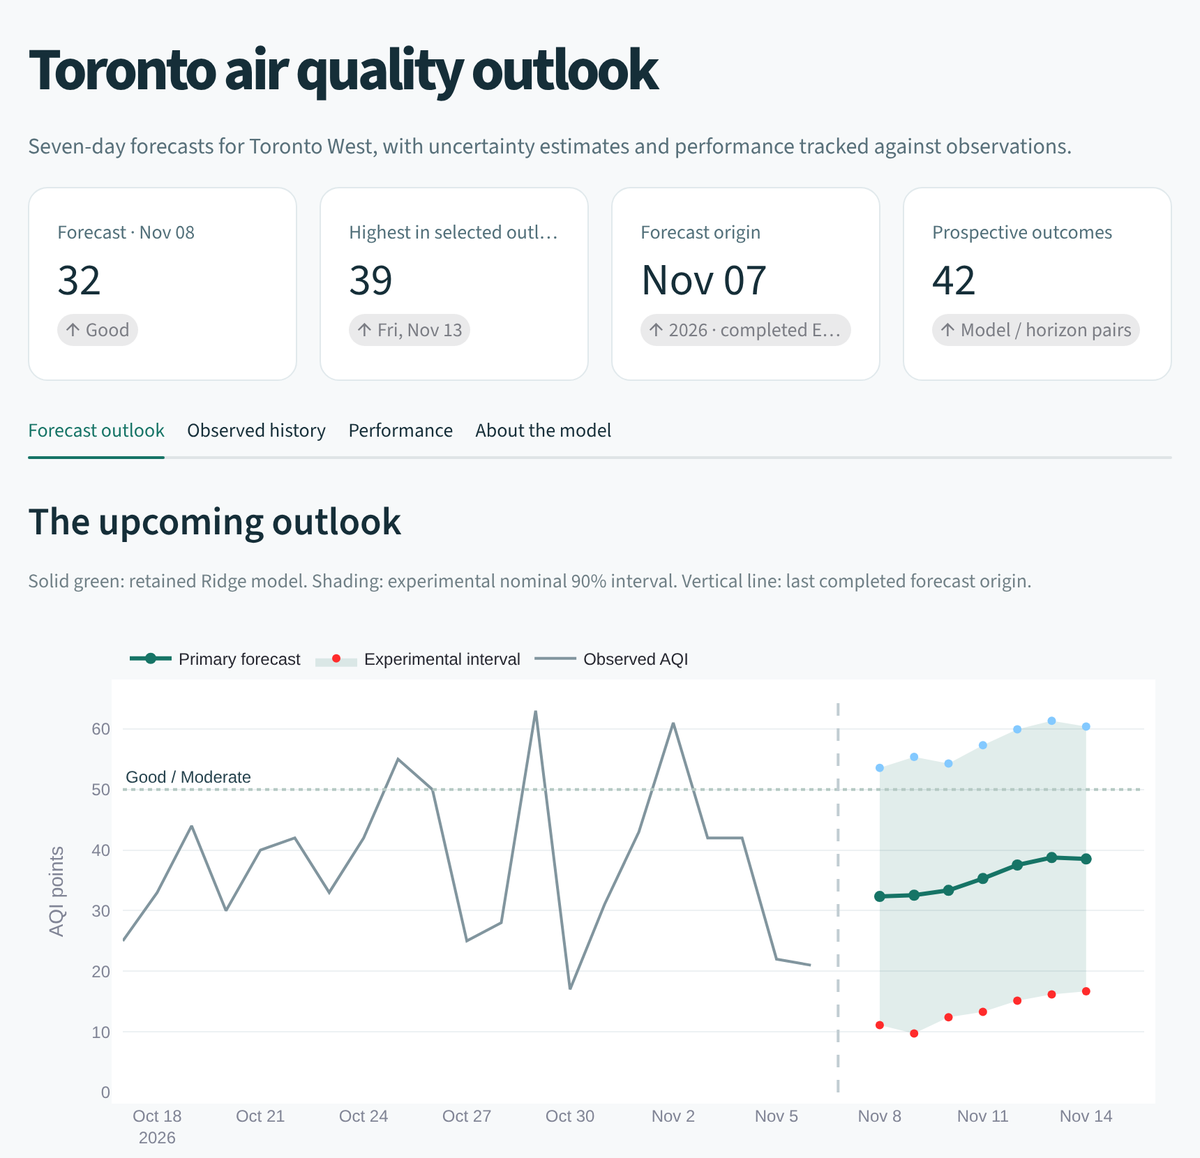
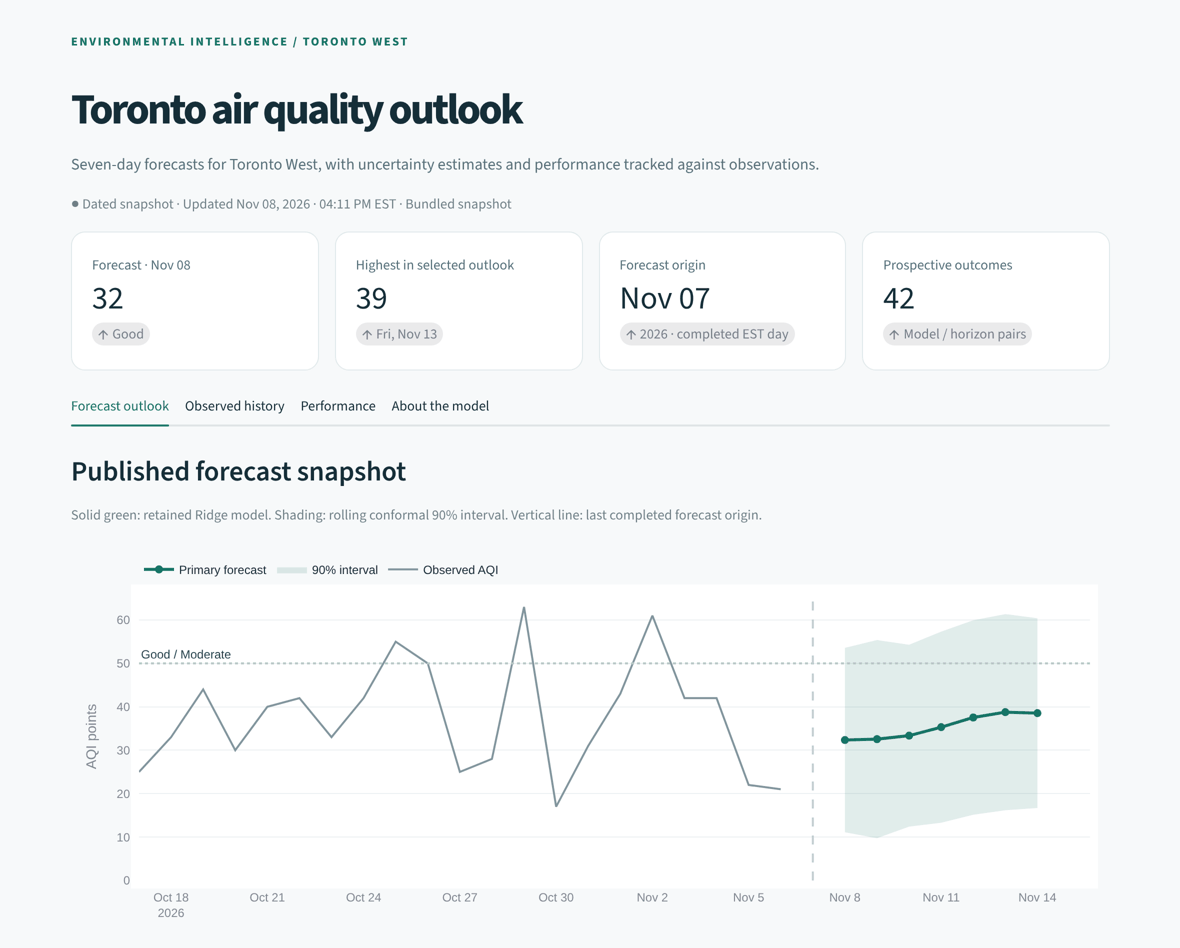
Refresh the README and dashboard screenshot
README: add a tests badge, point readers to the notebook and the live
forecasts on the data branch, add category accuracy to the results,
state the main weakness (pollution spikes) with a 2025 forecast-versus-
observed chart, rewrite findings in plain language, complete the project
layout, and add the commands that reproduce each report.

Dashboard: draw the 90% band edges as lines only. Without an explicit
mode, Plotly added default-coloured markers to the band boundaries.
The screenshot is retaken with the current labels.

diff --git a/app.py b/app.py
@@ -92,6 +92,7 @@ def forecast_chart(primary, challenger, observed, intervals, compare):
             go.Scatter(
                 x=primary.Date,
                 y=primary.upper_AQI,
+                mode="lines",  # no default-coloured markers on the band edges
                 line=dict(width=0),
                 showlegend=False,
                 hoverinfo="skip",
@@ -103,6 +104,7 @@ def forecast_chart(primary, challenger, observed, intervals, compare):
                 y=primary.lower_AQI,
                 fill="tonexty",
                 fillcolor="rgba(22,116,102,.13)",
+                mode="lines",
                 line=dict(width=0),
                 name="90% interval",
                 hoverinfo="skip",

diff --git a/README.md b/README.md
@@ -1,57 +1,71 @@
 # Toronto Air Quality Forecasting
 
-**Daily AQI forecasts for Toronto, 1–7 days ahead — trained, evaluated and published automatically.**
+[![Forecast tests](https://github.com/AhmedOT22/Air-Quality-Forecasting/actions/workflows/tests.yml/badge.svg)](https://github.com/AhmedOT22/Air-Quality-Forecasting/actions/workflows/tests.yml)
+
+**Daily Air Quality Index (AQI) forecasts for Toronto, 1–7 days ahead — trained,
+tested on a held-out year, and published automatically twice a day.**
 
 Python · pandas · scikit-learn · Streamlit · GitHub Actions
 
-![Dashboard: observed AQI and the upcoming 7-day forecast](docs/images/dashboard.png)
+![Dashboard: observed AQI, the 7-day forecast and its 90% range](docs/images/dashboard.png)
 
-An end-to-end forecasting system: it builds a daily Air Quality Index from public
-government monitoring data, selects a model with leakage-free time-series validation,
-then issues new forecasts twice a day and scores each one against what actually happened.
+The system builds a daily AQI from public government monitoring data, picks a model
+with leak-free time-series testing, then issues a new 7-day forecast twice a day and
+scores each one once the real value is known.
+
+**Start here:** the [notebook](AirQuality.ipynb) tells the whole story in ten short
+sections, from the raw data to where the model fails. The **latest live forecasts**
+are in [`reports/operational/`](https://github.com/AhmedOT22/Air-Quality-Forecasting/tree/data/reports/operational)
+on the `data` branch.
 
 ## Results
 
-The selected model, **Ridge regression** (one model per horizon), was chosen on
-2022–2024 data and then evaluated once on the held-out year **2025**:
+The model is **Ridge regression** (one per forecast horizon). It was chosen using
+2022–2024 data, frozen, and then tested once on **2025**, a year it never saw:
 
-| Horizon | Ridge MAE | Persistence MAE | Error reduction |
-| --- | ---: | ---: | ---: |
-| 1 day | **10.8** | 14.9 | **27%** |
-| 3 days | **12.5** | 15.6 | **20%** |
-| 7 days | **12.2** | 16.4 | **26%** |
+| Days ahead | Forecast error | Naive guess error | Less error | Right AQI category |
+| --- | ---: | ---: | ---: | ---: |
+| 1 | **10.8** | 14.9 | **27%** | **76%** (naive 68%) |
+| 3 | **12.5** | 15.6 | **20%** | **73%** (naive 65%) |
+| 7 | **12.2** | 16.4 | **26%** | **74%** (naive 61%) |
 
-MAE is in AQI points on 306–314 matched dates per horizon. "Persistence" repeats the
-latest known AQI — the standard baseline a forecast has to beat. Ridge beats it at every
-horizon from 1 to 7 days. Full tables: [`reports/workflow/`](reports/workflow/).
+Errors are mean absolute error in AQI points, over 306–314 days per horizon. The
+naive guess, "same as the latest known day", is the standard benchmark a forecast must
+beat; Ridge beats it at every horizon from 1 to 7 days.
 
-**Gradient boosting** competed as a candidate and lost the 2022–23 comparison (MAE 12.80
-vs 12.48), so Ridge stays. On 2025, a tuned boosting model would have scored slightly
-better on average (11.76 vs 11.93), winning at 6 of 7 horizons, but the rule picks models
-on earlier years only, so that is reported rather than acted on
-([`boosting_challenger.csv`](reports/workflow/boosting_challenger.csv)).
+**Where it fails: pollution spikes.** Like most regression models, it pulls forecasts
+toward typical values. It runs about 12 points high on the cleanest days and far too
+low on the worst ones: every 2025 day above AQI 100 that it forecast came out below
+100. The worst misses were sudden PM2.5 spikes, the signature of wildfire smoke, which
+local data cannot see coming.
 
-**What drives a forecast.** Permutation importance on 2025 shows the latest AQI and wind
-speed dominate 1-day forecasts, while the 7-day mean and time of year take over from
-3 days out ([`reports/explain/`](reports/explain/), chart on the dashboard).
+![2025 one-day forecasts against observed AQI, with the days above 100 marked](docs/images/forecast-vs-observed-2025.png)
 
-**Prediction intervals.** Each forecast carries a rolling conformal 90% interval, set
-from the last 180 days of out-of-sample errors. Chosen on 2025 and checked on 2026, it
-covered 89.8–90.8% of outcomes per horizon, up from 79–87% with the previous fixed
-calibration ([`reports/uncertainty/`](reports/uncertainty/)).
+**Also found:**
+- **Fine particles drive bad days.** PM2.5 decided 83% of days above AQI 50 in the
+  exploration years; ozone matters on some summer days.
+- **Recent AQI only helps for a few days.** One day out, the forecast leans on the latest
+  reading and wind speed; from about three days out, time of year and the 7-day average
+  take over ([`reports/explain/`](reports/explain/)).
+- **The model types finished close together.** Ridge, random forests and gradient
+  boosting were within a few tenths of a point on 2022–23; Ridge is the simplest of
+  near-equals ([`reports/workflow/`](reports/workflow/)).
+- **The 90% range is honest.** Each forecast's range is set from the model's errors
+  over the last 180 days. Checked on 2026, it contained the real value 89.8–90.8% of the
+  time at each horizon ([`reports/uncertainty/`](reports/uncertainty/)).
 
 ## How it works
 
 ```text
-Federal (NAPS) + Ontario pollution data, ECCC weather
+Federal (NAPS) + Ontario pollution data, Environment Canada weather
                        │
-        Validated ETL → daily 4-pollutant AQI (EPA 2024)
+        Validated ETL → daily 4-pollutant AQI (EPA 2024 rules)
                        │
        Checksummed, locked research snapshot
                        │
-  Model comparison (2022–23) → tuning (2024) → final test (2025)
+  Compare models (2022–23) → tune (2024) → final test (2025)
                        │
-     GitHub Actions: refresh data twice daily, issue 7-day forecast
+     GitHub Actions: refresh data twice daily, issue a 7-day forecast
                        │
   Forecast ledger (data branch) → score once observations arrive
                        │
@@ -60,34 +74,38 @@ Federal (NAPS) + Ontario pollution data, ECCC weather
 
 **Engineering highlights**
 
-- **No look-ahead leakage.** Features only use data that would have been available at
-  forecast time, including the one-day delay before ozone-based AQI is final. Scaling
-  and imputation are fitted on training data only, and tests assert that changing
-  future values never changes a past prediction.
-- **Baseline-driven model selection.** Linear autoregression, Ridge, random forests and
-  gradient boosting were compared against persistence and weekly-repeat baselines on identical dates,
-  using expanding yearly folds rather than random splits.
-- **Reproducible data.** A versioned ETL contract, SHA-256 checksums and source
-  manifests lock the research snapshot. Missing AQI is never imputed.
-- **Production behaviour.** Each forecast is recorded once and never overwritten,
-  stale inputs block publication instead of silently reusing old data, and every
-  forecast is tagged with the model version that produced it.
-- **Tested.** 66 unit and integration tests cover AQI calculations, leakage,
-  scheduling and the dashboard; CI also re-executes the analysis notebook.
+- **No look-ahead leakage.** Features only use data available at forecast time,
+  including the one-day delay before the ozone part of the AQI is final. Missing
+  weather is filled using training data only, and tests check that changing future
+  values never changes a past forecast.
+- **Tested against baselines, in time order.** Five model types were compared with two
+  naive baselines on identical dates, using expanding yearly folds rather than random
+  splits; the chosen model was frozen before the final test year.
+- **Reproducible data.** A versioned data contract, SHA-256 checksums and source
+  manifests lock the research snapshot. Missing AQI is never filled in.
+- **Built for production.** Each forecast is recorded once and never overwritten; stale
+  or incomplete inputs block publication instead of reusing old data; every forecast
+  carries the model version that made it.
+- **Tested.** 66 unit and integration tests cover AQI calculation, leakage, scheduling
+  and the dashboard; CI also re-runs the notebook.
 
 ## Project layout
 
 | Path | Purpose |
 | --- | --- |
-| [`AirQuality.ipynb`](AirQuality.ipynb) | Research notebook: data, EDA, model selection, evaluation |
-| `aqi.py`, `aqi_data.py`, `data_sources.py`, `extend_data.py` | Data acquisition and AQI calculation |
-| `etl_contract.py` | Validates and locks the prepared dataset |
-| `features.py`, `workflow.py` | Leakage-aware features, model selection and evaluation |
-| `operations.py` | Scheduled refresh, forecast issuance and scoring |
+| [`AirQuality.ipynb`](AirQuality.ipynb) | The narrative: data, model choice, 2025 results, failures, latest forecast |
+| `aqi.py`, `aqi_data.py`, `data_sources.py`, `extend_data.py` | Download pollution and weather data; calculate daily AQI |
+| `etl_contract.py` | Validate and lock the prepared dataset |
+| `features.py`, `workflow.py` | Leak-free features; model comparison, tuning and the 2025 test |
+| `uncertainty.py` | 90% forecast ranges from recent errors (rolling conformal intervals) |
+| `explain.py` | What drives each horizon's forecast (permutation importance) |
+| `operations.py` | Scheduled refresh: issue, record and score forecasts |
+| `forecast_weather.py`, `weather_model.py` | Experimental challenger using weather forecasts |
 | `app.py`, `dashboard_data.py` | Streamlit dashboard |
-| `uncertainty.py` | Rolling conformal prediction intervals |
-| `explain.py` | Permutation importance: what drives each horizon's forecast |
-| `weather_model.py` | Experimental weather-forecast challenger |
+| `reports/` | Saved results: `workflow/`, `explain/`, `uncertainty/`, `weather/`, and a bundled `operational/` copy |
+| `data/processed/` | Locked, checksummed input data |
+| `tests/`, `scripts/` | Test suite; notebook runner used by CI |
+| `docs/` | Detailed methods (linked below) |
 
 ## Run locally
 
@@ -97,31 +115,45 @@ Python 3.11, from the repository root:
 python -m venv .venv
 source .venv/bin/activate            # Windows: .venv\Scripts\activate
 pip install -r requirements.txt
-
-python workflow.py                   # reproduce model selection and the 2025 test
-python -m unittest discover -s tests # run the test suite
-streamlit run app.py                 # open the dashboard
 ```
 
-For the notebook, install `requirements-dev.txt` and run `jupyter lab AirQuality.ipynb`.
+```bash
+streamlit run app.py                 # open the dashboard
+python -m unittest discover -s tests # run the test suite
+```
+
+Reproduce the results (each command rewrites its `reports/` folder; outputs should
+match the committed files byte for byte):
+
+```bash
+python workflow.py                   # model comparison, tuning and the 2025 test
+python explain.py                    # what drives the forecast
+python uncertainty.py                # 90% range calibration
+```
+
+For the notebook, also run `pip install -r requirements-dev.txt`, then
+`jupyter lab AirQuality.ipynb` (or `python scripts/execute_notebook.py` to re-run it
+headless, as CI does). Live refreshes run in GitHub Actions; see
+[Operations](docs/operations.md).
 
 ## Limitations
 
-- **Single station.** Forecasts cover the Toronto West monitor, using Pearson airport
-  weather as a proxy.
-- **Not an official index.** The AQI is reconstructed with US EPA 2024 breakpoints
-  from four pollutants (PM2.5, O3, NO2, SO2). It is not Canada's AQHI or a health advisory.
-- **Live track record is still building.** The 2025 numbers above are a historical
-  test. Live accuracy appears on the dashboard once each horizon has 30 scored forecasts.
-- **Intervals are calibrated, not guaranteed.** Errors are serially dependent and
-  conditions shift, so 90% coverage is a back-tested estimate; live coverage is scored
-  separately. The weather-forecast challenger is monitored on its own and never
-  replaces the main model automatically.
+- **Spikes and smoke.** The model misses sudden pollution spikes, especially
+  long-range wildfire smoke, which no local input can see.
+- **Single station.** Forecasts cover the Toronto West monitor, with weather from
+  Pearson airport about 8 km away. Recent Ontario readings are provisional.
+- **Not an official index.** The AQI is rebuilt with US EPA 2024 rules from four
+  pollutants (PM2.5, ozone, NO₂, SO₂). It is not Canada's AQHI or health advice.
+- **Live track record is still building.** The 2025 results are a historical test.
+  Live accuracy appears on the dashboard once each horizon has 30 scored forecasts.
+- **Ranges are estimates.** The 90% coverage is back-tested, not guaranteed; live
+  coverage is scored separately. The weather-forecast challenger is monitored on its
+  own and never replaces the main model automatically.
 
 ## Documentation
 
 [Evaluation protocol](docs/workflow.md) · [Data & AQI calculation](docs/data.md) ·
-[ETL contract](docs/etl_contract.md) · [Data sources](docs/extended_data.md) ·
+[Data contract](docs/etl_contract.md) · [Data sources](docs/extended_data.md) ·
 [Source comparison](docs/source_comparison.md) · [Operations](docs/operations.md) ·
 [Dashboard](docs/dashboard.md)
 
